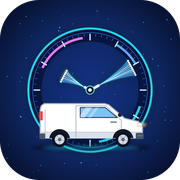
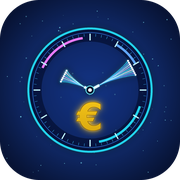
Nuova icona: senza furgone, con euro dorato nel quadrante (v1.0.3)
Claude-Session: https://claude.ai/code/session_014dWA6ggcevrFXNmw8dLQxb

Changed region(s): [[0.1944, 0.5278, 0.8333, 0.8611], [0.1944, 0.8056, 0.25, 0.8333], [0.7778, 0.8056, 0.8056, 0.8333]]

diff --git a/index.html b/index.html
@@ -169,7 +169,7 @@ tfoot td{font-weight:700}
   </div>
   <button class="sec" id="rr" style="width:100%">Azzera tariffe</button>
   <button class="sec" id="dsb" style="width:100%;margin-top:8px">Leggi le avvertenze</button>
-  <div class="msg" style="text-align:center">Versione 1.0.2</div>
+  <div class="msg" style="text-align:center">Versione 1.0.3</div>
 </section>
 
 <div class="card" style="margin-top:12px">

diff --git a/sw.js b/sw.js
@@ -1,7 +1,7 @@
 // Service worker: l'app funziona anche senza connessione.
 // Strategia "prima la rete, poi la copia salvata": con internet si ottiene sempre
 // l'ultima versione, senza internet si usa quella già scaricata.
-const VERSIONE = "ore-lavoro-1.0.2";
+const VERSIONE = "ore-lavoro-1.0.3";
 const FILE = [
   "./",
   "./index.html",
